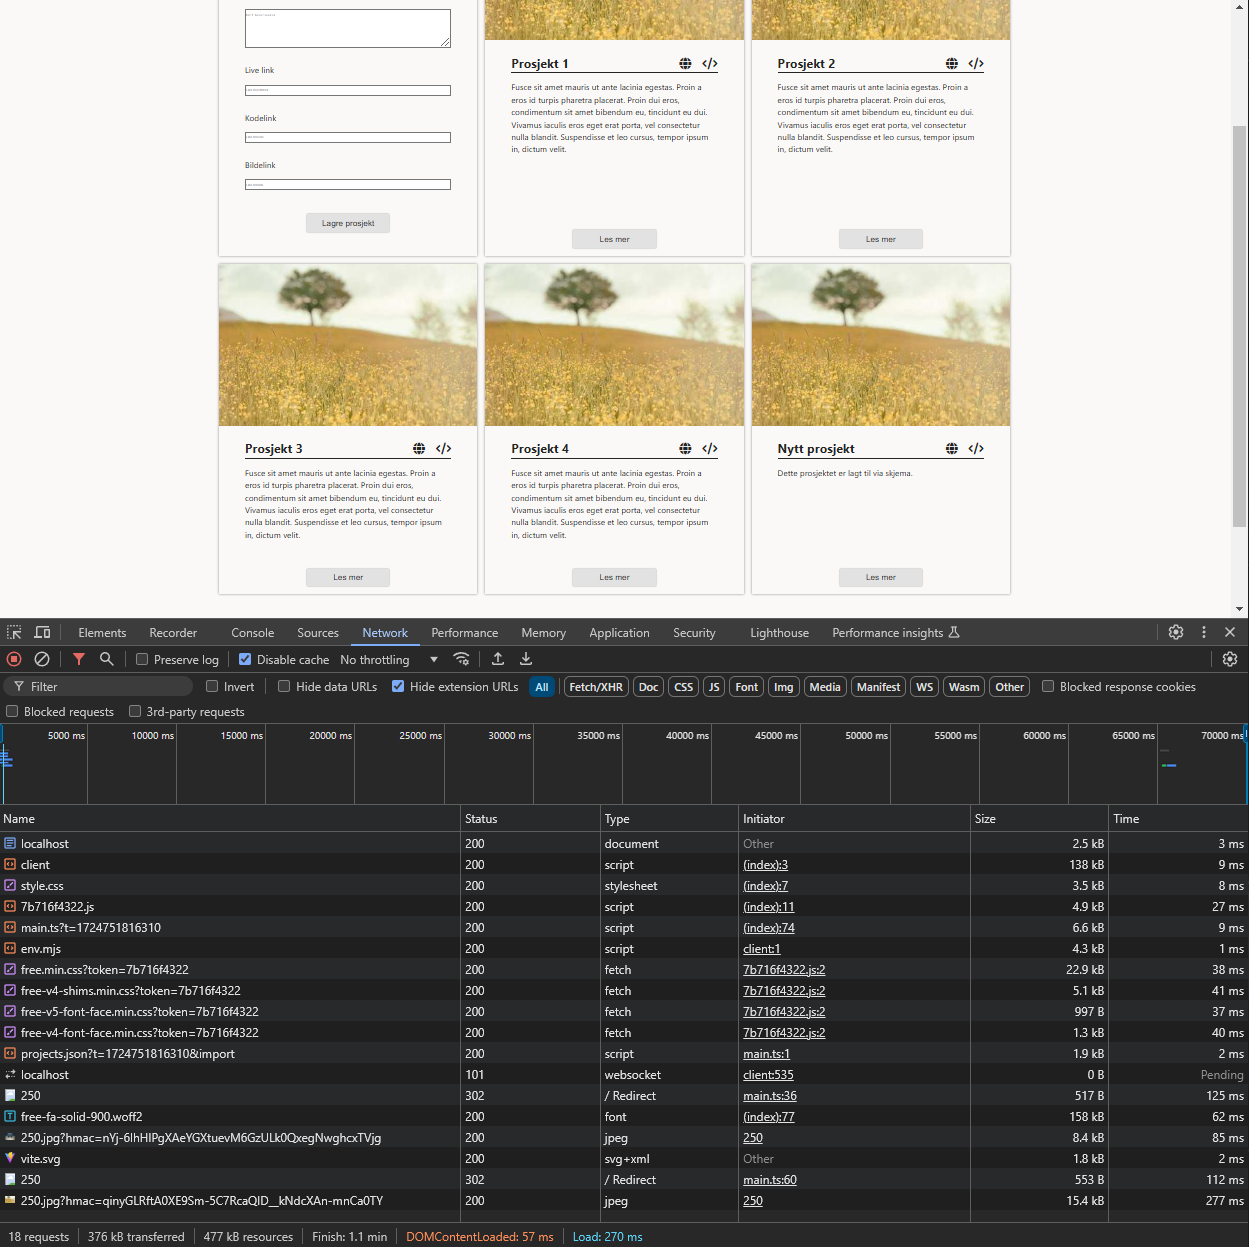
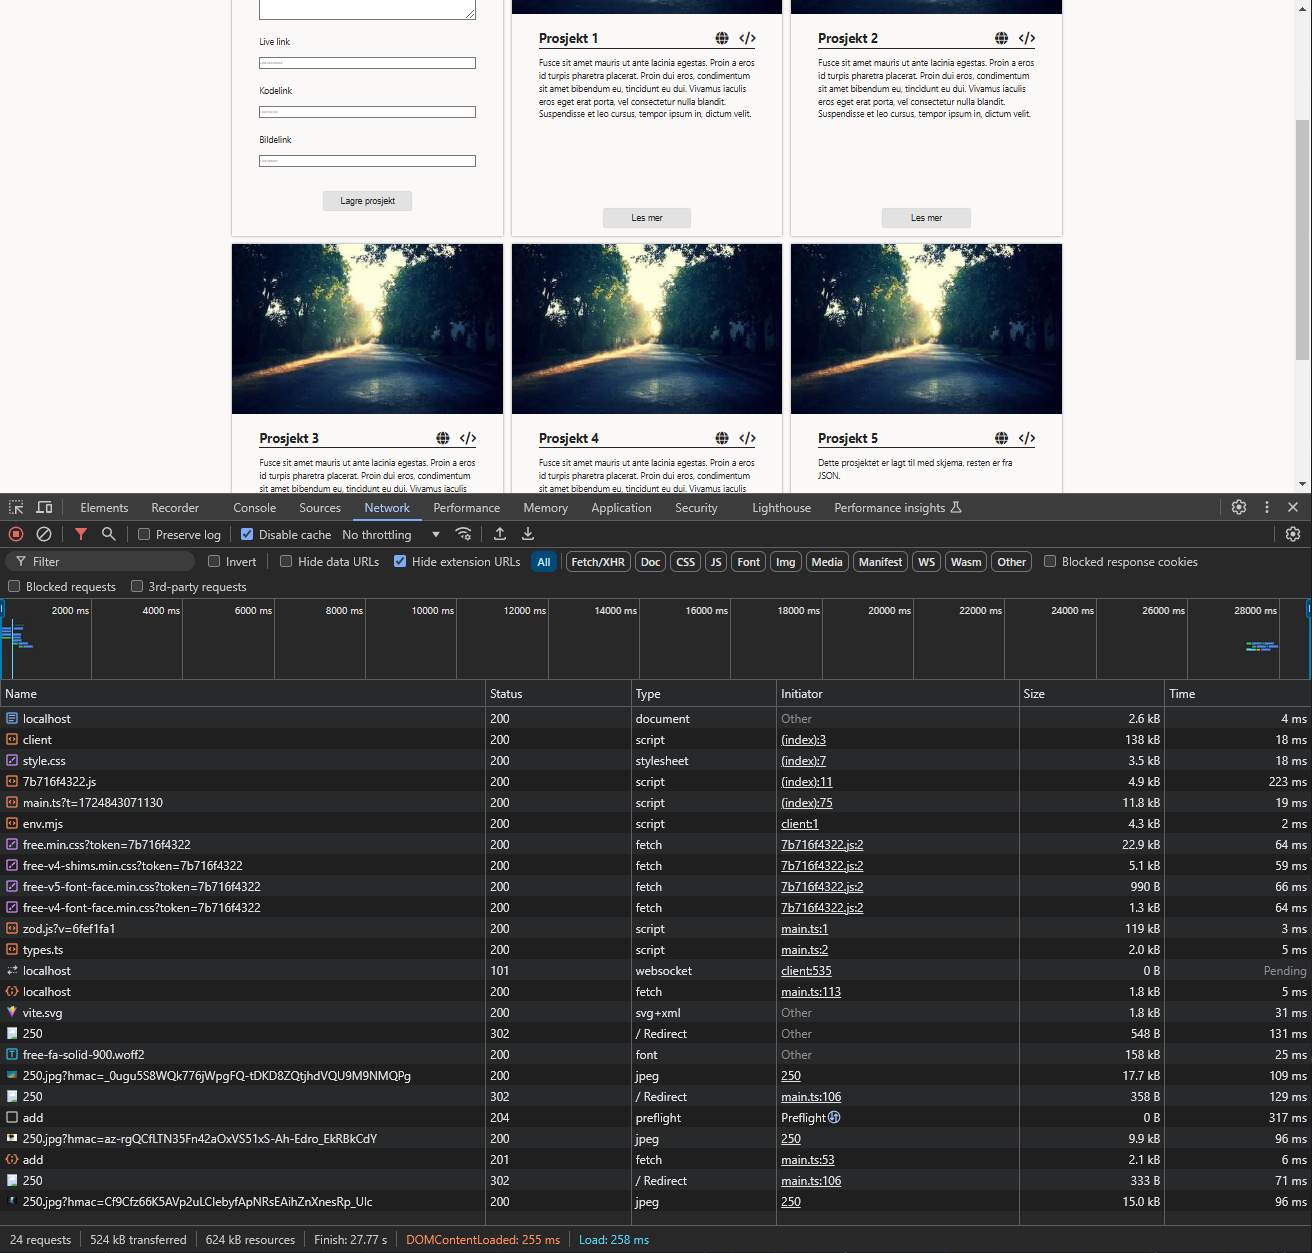
laster inn json-prosjekter, lagt ved innleveringsfiler

Changed region(s): [[0.0, 0.0, 1.0, 1.0], [0.8118, 0.5485, 0.9367, 0.9751], [0.7806, 0.6399, 0.8118, 0.6704]]

diff --git a/oblig1/src/main.ts b/oblig1/src/main.ts
@@ -1,16 +1,19 @@
 import { z } from "zod";
 import { ProjectArraySchema, type Project } from "../types";
 
-/* Har i STOR grad fulgt eksempelet gitt i spa-ts-repoet, da måten jeg hadde satt det opp i starten var veldig ulikt, og
-  fikk det ikke til å funke med serveroppsettet i spa-ts.*/
+/* Har i STOR grad fulgt eksempelet gitt i spa-ts-repoet. Server er helt nytt for meg, så håper det er OK å lene seg på
+  tilgjengeliggjorte løsninger i starten! :) Har heller fokusert på å skjønne hvodan og hvorfor dette funker, og hvor jeg må
+  endre på ting for å få det til å funke slik jeg vil det skal funke.*/
 
 const form = document.getElementById("add-project-form") as HTMLFormElement;
 const contentWrapper = document.getElementById(
   "content-wrapper"
 ) as HTMLElement;
 
-const projects: Project[] = [];
+// let for å kunne legge til fra json
+let projects: Project[] = [];
 
+// Lese input fra skjema
 form.addEventListener("submit", async (event: SubmitEvent) => {
   event.preventDefault();
 
@@ -56,6 +59,10 @@ form.addEventListener("submit", async (event: SubmitEvent) => {
     });
 
     if (response.status === 201) {
+      // Legger til statiske json-prosjekter
+      const updatedProjects = await response.json();
+      projects = updatedProjects;
+      updateProjectsList();
       console.log("Prosjekt lagret på serveren");
     } else {
       console.error("Feil ved lagring av prosjekt på serveren");
@@ -89,10 +96,6 @@ function createProjectCard(project: Project): string {
 function updateProjectsList() {
   console.log("Updating projects list:", projects);
 
-  if (!contentWrapper) {
-    console.error("contentWrapper not found");
-    return;
-  }
   // Fjern eksisterende kort
   const existingCards = contentWrapper.querySelectorAll(".project-card");
   existingCards.forEach((card) => card.remove());
@@ -102,6 +105,8 @@ function updateProjectsList() {
     const projectHTML = createProjectCard(project);
     contentWrapper.insertAdjacentHTML("beforeend", projectHTML);
   }
+  // Tømme skjema
+  form.reset();
 }
 
 function loadFromApi() {

diff --git a/oblig1/src/style.css b/oblig1/src/style.css
@@ -49,7 +49,7 @@ header {
   justify-content: center;
   width: 80%;
   margin: 0 auto;
-  gap: 1rem;
+  gap: 2rem;
   .add-form {
     h2 {
       text-align: center;
@@ -59,13 +59,13 @@ header {
       display: flex;
       flex-direction: column;
       width: 80%;
-      height: 40rem;
+      height: 32rem;
       margin: 0 auto;
       justify-content: space-evenly;
       input,
       textarea {
         padding: 0.3rem 0;
-        margin-top: -1rem;
+        margin-top: -0.3rem;
       }
     }
   }
@@ -75,7 +75,7 @@ header {
     width: 100%;
     display: flex;
     flex-direction: column;
-    min-height: 40rem;
+    min-height: 0rem;
     max-height: fit-content;
     overflow: hidden;
     .img-wrapper {
@@ -144,14 +144,36 @@ footer {
 }
 
 /* Breakpoints */
-
 @media only screen and (min-width: 992px) {
+  #content-wrapper {
+    flex-direction: row;
+
+    .project-card,
+    .add-form {
+      width: 40%;
+      form {
+        input,
+        textarea {
+          margin-top: -0.7rem;
+        }
+      }
+    }
+  }
+}
+
+@media only screen and (min-width: 1200px) {
   #content-wrapper {
     flex-direction: row;
     max-width: 70%;
     .project-card,
     .add-form {
       width: 30%;
+      form {
+        input,
+        textarea {
+          margin-top: -0.8rem;
+        }
+      }
     }
   }
 }

diff --git a/oblig1/server.ts b/oblig1/server.ts
@@ -3,8 +3,9 @@ import { Hono } from "hono";
 import { cors } from "hono/cors";
 import { serveStatic } from "@hono/node-server/serve-static";
 import { ProjectSchema, type Project } from "./types";
+import jsonData from "./data/projects.json";
 
-// mer eller mindre direkte avskrift fra spa-ts her også
+// mer eller mindre direkte avskrift fra spa-ts
 
 const app = new Hono();
 
@@ -12,8 +13,8 @@ app.use("/*", cors());
 
 app.use("/static/*", serveStatic({ root: "./" }));
 
-// tom liste
-const projects: Project[] = [];
+// Legger til data fra json i tom liste
+const projects: Project[] = [...jsonData];
 
 app.post("/add", async (c) => {
   const newProject = await c.req.json();
